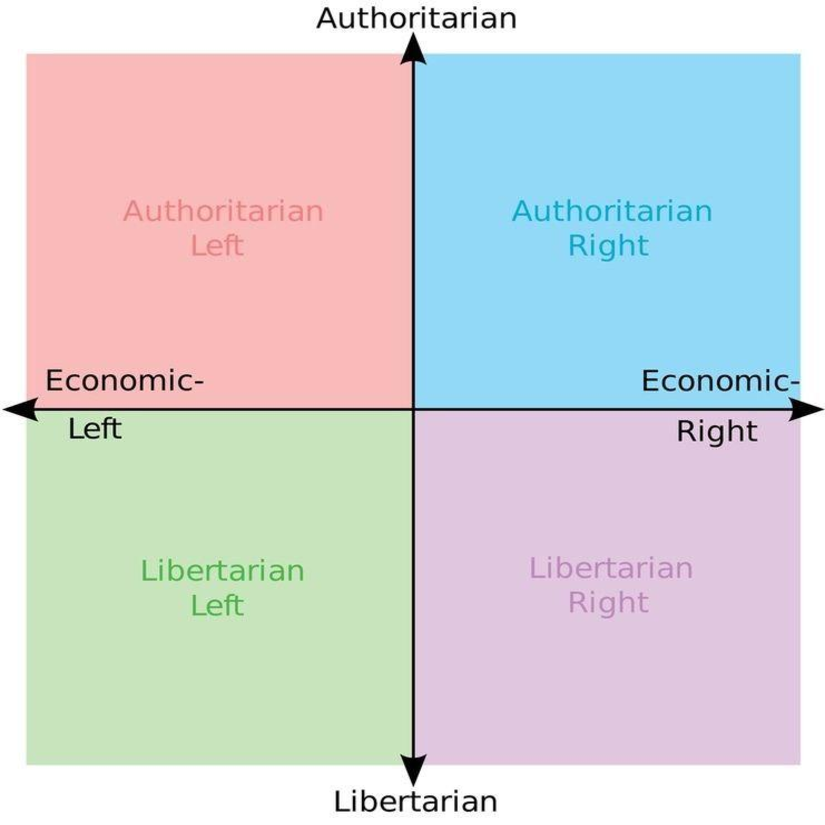
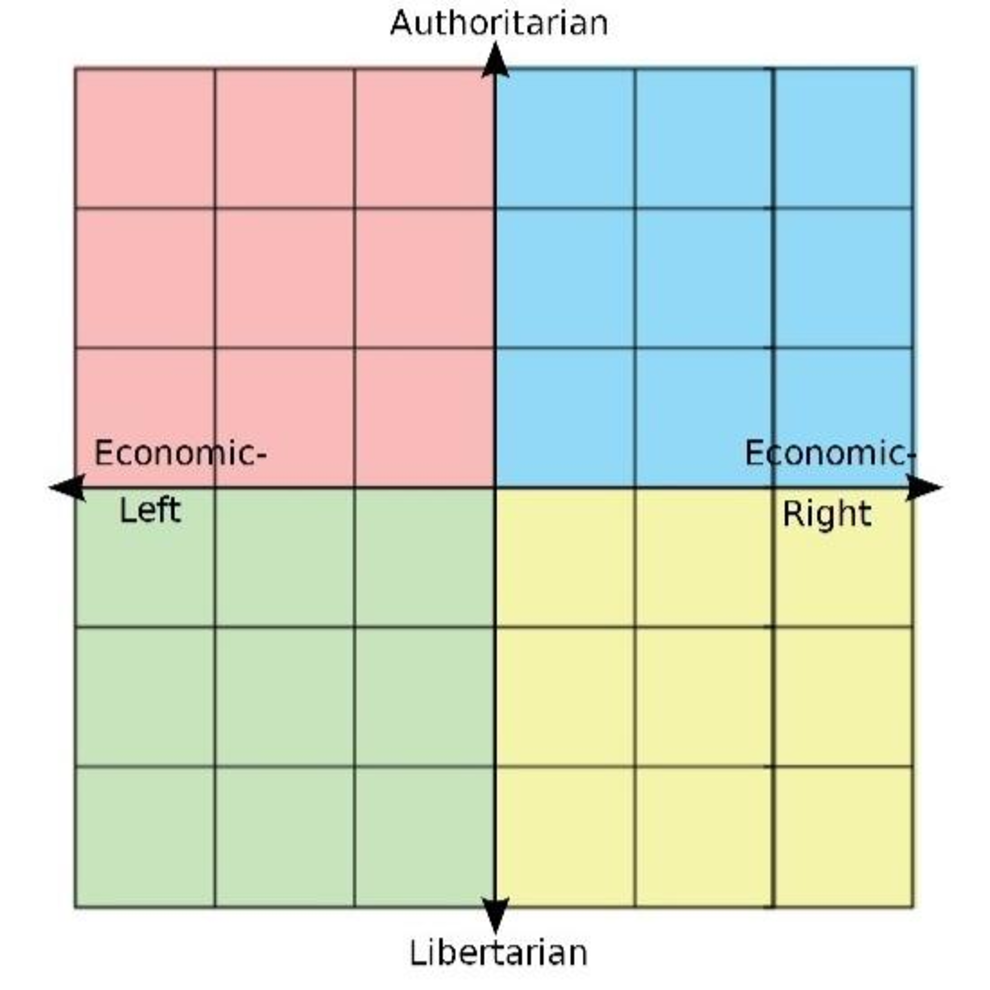
Added google form, changed result image, results counting and storage

diff --git a/PoliticalCompassBot/src/main/java/com/newsforright/bot/control/AnswerHandler.java b/PoliticalCompassBot/src/main/java/com/newsforright/bot/control/AnswerHandler.java
@@ -1,6 +1,5 @@
 package com.newsforright.bot.control;
 
-import com.newsforright.bot.entities.Question;
 import com.newsforright.bot.entities.TelegramUser;
 import com.newsforright.bot.enums.Answer;
 import com.newsforright.bot.enums.Button;
@@ -8,7 +7,6 @@ import com.newsforright.bot.enums.Util;
 import com.newsforright.bot.persistence.DBManager;
 import com.newsforright.bot.service.TelegramOutputService;
 import com.newsforright.bot.util.CommonUtils;
-import com.newsforright.bot.util.Pair;
 import org.springframework.beans.factory.annotation.Autowired;
 import org.springframework.stereotype.Service;
 
@@ -51,6 +49,7 @@ public class AnswerHandler {
         switch (currentUser.getBotState().getPhase()) {
             case GREETING -> greetingAnswer(message, currentUser);
             case TESTING -> handleQuizAnswer(message, currentUser);
+            case SOCIAL -> sendResults(message, currentUser);
             case RESULTS -> restartTest(message, currentUser);
         }
 
@@ -71,7 +70,9 @@ public class AnswerHandler {
         Button button = Button.getButton(message);
 
         //If BACK print previous question
-        if (button.equals(Util.BACK)) {
+        if (button.equals(Util.BACK) &&
+                currentUser.getBotState().getCurrentQuestion().getNumber() != 1) {
+
             goBack(currentUser);
             return;
         }
@@ -79,6 +80,7 @@ public class AnswerHandler {
         if (button.getButtonType().equals("UTIL")) return;
 
         //Else go to next question
+        assert button instanceof Answer;
         goForward((Answer) button, currentUser);
     }
 
@@ -94,10 +96,6 @@ public class AnswerHandler {
      * @param currentUser Telegram user who send message
      */
     private void goBack(TelegramUser currentUser){
-        int questionNumber = Math.toIntExact(currentUser.getBotState().getCurrentQuestion().getNumber());
-        //We need -2 because current question is the one that on the screen, left unanswered
-        Integer value = currentUser.getAnswers().get(questionNumber - 2);
-        updateResults(currentUser, -value); //subtracting
         quizController.askPrevious(currentUser);
     }
 
@@ -111,32 +109,29 @@ public class AnswerHandler {
         boolean inverted = currentUser.getBotState().getCurrentQuestion().getInverted();
 
         Integer buttonValue = button.getValue(inverted);
-        updateResults(currentUser, buttonValue);
         currentUser.getAnswers().set(questionNumber-1, buttonValue);
 
         if (questionNumber == utils.LAST_QUESTION.intValue()) { //if last show results
-            quizController.showResults(currentUser);
-            dbManager.nextPhase(currentUser.getBotState());
-            //TODO: DELETE THIS WHEN SOCIAL IMPLEMENTED!!!
-            dbManager.nextPhase(currentUser.getBotState());
+            sendSocialForm(currentUser);
         }
         else quizController.askNext(currentUser); //else go next
-    }
-
-    private void updateResults(TelegramUser currentUser, Integer value){
-        Pair<Integer, Integer> currentResults = utils.parseResults(currentUser.getResult());
-        Question currentQuestion = currentUser.getBotState().getCurrentQuestion();
-        switch (currentQuestion.getAxe()) {
-            case ECONOMICAL -> currentResults.first += value;
-            case POLITICAL -> currentResults.second += value;
-        }
-        currentUser.setResult(utils.resultsToString(currentResults));
-
     }
 
     private void startTest(TelegramUser currentUser) {
         dbManager.nextPhase(currentUser.getBotState());
         quizController.startQuiz(currentUser);
+    }
+
+    private void sendSocialForm(TelegramUser currentUser){
+        dbManager.nextPhase(currentUser.getBotState());
+        output.askGoogleForm(currentUser);
+        dbManager.saveUser(currentUser);
+    }
+
+    private void sendResults(String message, TelegramUser currentUser){
+        if (!message.equals(Util.RESULTS.getText())) return;
+        dbManager.nextPhase(currentUser.getBotState());
+        quizController.showResults(currentUser);
     }
 
 }

diff --git a/PoliticalCompassBot/src/main/java/com/newsforright/bot/service/TelegramOutputService.java b/PoliticalCompassBot/src/main/java/com/newsforright/bot/service/TelegramOutputService.java
@@ -1,11 +1,13 @@
 package com.newsforright.bot.service;
 
 import com.newsforright.bot.Bot;
+import com.newsforright.bot.entities.TelegramUser;
 import com.newsforright.bot.enums.Answer;
 import com.newsforright.bot.enums.Button;
 import com.newsforright.bot.enums.Util;
 import com.newsforright.bot.util.CommonUtils;
 import org.springframework.beans.factory.annotation.Autowired;
+import org.springframework.beans.factory.annotation.Value;
 import org.springframework.stereotype.Service;
 import org.telegram.telegrambots.meta.api.methods.send.SendMessage;
 import org.telegram.telegrambots.meta.api.methods.send.SendPhoto;
@@ -30,6 +32,10 @@ import java.util.List;
  */
 @Service
 public class TelegramOutputService {
+
+    @Value("${bot.resources.social-url}")
+    private String googleFormUrl;
+
     //dependencies
     private Bot bot;
     private CommonUtils utils;
@@ -94,7 +100,24 @@ public class TelegramOutputService {
             e.printStackTrace();
             utils.printErrorToDev("Error sending file"); //TODO: delete on release
         }
+        assert (image.delete());
     }
+
+    /**
+     * A method to send google form and ask to complete it
+     * @param currentUser Telegram user that send a message
+     */
+    public void askGoogleForm(TelegramUser currentUser) {
+        printWithMarkup(googleFormUrl + currentUser.getSocialDataId(), //form
+                currentUser.getChatId(),
+                requestResultsKeyboard());
+
+        printWithMarkup("Просимо вас, заповнити цю форму.\n" + //request
+                "Ми не передаємо ваші дані третім особам та не використовуємо їх в комерційних цілях",
+                currentUser.getChatId(),
+                requestResultsKeyboard());
+    }
+
 
     /**
      * Simple method to print some text with buttons to user
@@ -114,16 +137,31 @@ public class TelegramOutputService {
         }
     }
 
-    /**
-     * Simple method that creates one button markup
-     * Used with greeting
-     * @return KeyboardMarkup with one Util.LETSGO button
-     */
     private ReplyKeyboardMarkup startQuizMarkup() {
         ReplyKeyboardMarkup result = new ReplyKeyboardMarkup();
         result.setKeyboard(
                 List.of(
                         oneButtonRow(Util.LETSGO)
+                )
+        );
+        return result;
+    }
+
+    private ReplyKeyboard requestResultsKeyboard() {
+        ReplyKeyboardMarkup result = new ReplyKeyboardMarkup();
+        result.setKeyboard(
+                List.of(
+                        oneButtonRow(Util.RESULTS)
+                )
+        );
+        return result;
+    }
+
+    private ReplyKeyboardMarkup resultsKeyboard() {
+        ReplyKeyboardMarkup result = new ReplyKeyboardMarkup();
+        result.setKeyboard(
+                List.of(
+                        oneButtonRow(Util.RESTART)
                 )
         );
         return result;
@@ -143,19 +181,7 @@ public class TelegramOutputService {
         );
     }
 
-    /**
-     * Simple method that generates one button Keyboard for RESULTS phase
-     * @return keyboard markup with one Utils.RESTART button
-     */
-    private ReplyKeyboardMarkup resultsKeyboard() {
-        ReplyKeyboardMarkup result = new ReplyKeyboardMarkup();
-        result.setKeyboard(
-                List.of(
-                    oneButtonRow(Util.RESTART)
-                )
-        );
-        return result;
-    }
+
 
     /**
      * Simple method that converts list of standard quiz buttons to KeyboardMarkup
@@ -184,7 +210,5 @@ public class TelegramOutputService {
         result.add(button.getText());
         return result;
     }
-
-
 
 }

diff --git a/PoliticalCompassBot/src/main/java/com/newsforright/bot/util/CommonUtils.java b/PoliticalCompassBot/src/main/java/com/newsforright/bot/util/CommonUtils.java
@@ -70,23 +70,12 @@ public class CommonUtils {
     }
 
     /**
-     * Method that converts DB 'results' string in format (a,b) into Pair of integers
-     * @param str Input string in format '(a,b)'
-     * @return    Pair<Integer, Integer> where pair.first = a, pair.second = b
-     */
-    public Pair<Integer, Integer> parseResults(String str){
-        String x = str.substring(0, str.indexOf(','));
-        String y = str.substring(str.indexOf(',')+1);
-        return new Pair<>(Integer.parseInt(x), Integer.parseInt(y));
-    }
-
-    /**
      * Method that converts a Pair of integers (result) in string for
      * DB 'results' in format '(a,b)'
      * @param results Input Pair<Integer, Integer> of result
      * @return        String in format '(a,b)' where a = pair.first, b = pair.second
      */
-    public String resultsToString(Pair<Integer, Integer> results){
+    public String resultsToString(Pair<Double, Double> results){
         return results.first.toString() +
                 "," +
                 results.second.toString();
@@ -115,7 +104,8 @@ public class CommonUtils {
 
         LAST_QUESTION = (long) questionList.size();
         //TODO: Make a normal counter
-        MAX_SCORE_ECON = MAX_SCORE_POLI = questionList.size();
+        MAX_SCORE_ECON = questionList.size();
+        MAX_SCORE_POLI = questionList.size();
 
 
         //Getting image
@@ -187,17 +177,17 @@ public class CommonUtils {
         graphics2D.setRenderingHint(RenderingHints.KEY_INTERPOLATION, RenderingHints.VALUE_INTERPOLATION_BILINEAR);
         graphics2D.setColor(Color.BLACK); //Outer circle
         graphics2D.fillOval(
-                (int)(finalResults.first* 8),
-                (int)(finalResults.second * 8),
-                26,
-                26
+                (int)(finalResults.first* 8) + 73,
+                (int)(finalResults.second * 8) + 66,
+                43,
+                43
         );
         graphics2D.setColor(Color.RED); //Inner circle
         graphics2D.fillOval(
-                (int)(finalResults.first * 8) + 3,
-                (int)(finalResults.second * 8) + 3,
-                20,
-                20
+                (int)(finalResults.first * 8) + 73 + 6,
+                (int)(finalResults.second * 8) + 66 + 6,
+                31,
+                31
         );
         graphics2D.dispose();
         //Creating a temp file and saving result there

diff --git a/PoliticalCompassBot/src/main/java/com/newsforright/bot/control/QuizController.java b/PoliticalCompassBot/src/main/java/com/newsforright/bot/control/QuizController.java
@@ -96,15 +96,33 @@ public class QuizController {
      * @param currentUser TelegramUser who sent a message
      */
     public void showResults(TelegramUser currentUser) {
-        Pair<Integer, Integer> results = utils.parseResults(currentUser.getResult());
+
+        Pair<Integer, Integer> results = countResult(currentUser);
         Pair<Double, Double> finalResults = new Pair<>(
                 (100 * (double) (utils.MAX_SCORE_ECON + results.first) / (double) (2 * utils.MAX_SCORE_ECON)),
                 (100 * (double) (utils.MAX_SCORE_POLI + results.second) / (double) (2 * utils.MAX_SCORE_POLI))
         );
+        updateResults(currentUser, finalResults);
         output.sendResults(currentUser.getChatId(),
                 utils.getCompassWithDot(finalResults));
 
         dbManager.saveUser(currentUser);
+    }
+
+    private Pair<Integer, Integer> countResult(TelegramUser currentUser) {
+        Integer sumEconomical = 0;
+        Integer sumPolitical = 0;
+        for (int i = 0; i < utils.LAST_QUESTION; i++) {
+            if (utils.questionList.get(i).getAxe() == Axe.POLITICAL)
+                sumPolitical += currentUser.getAnswers().get(i);
+            else
+                sumEconomical += currentUser.getAnswers().get(i);
+        }
+        return new Pair<>(sumEconomical, sumPolitical);
+    }
+
+    private void updateResults(TelegramUser currentUser, Pair<Double, Double> results){
+        currentUser.setResult(utils.resultsToString(results));
     }
 
     private Question currentQuestion(TelegramUser currentUser) {

diff --git a/PoliticalCompassBot/src/main/java/com/newsforright/bot/control/MainController.java b/PoliticalCompassBot/src/main/java/com/newsforright/bot/control/MainController.java
@@ -11,6 +11,7 @@ import org.telegram.telegrambots.meta.api.objects.Message;
 import org.telegram.telegrambots.meta.api.objects.Update;
 
 import java.util.ArrayList;
+import java.util.concurrent.ThreadLocalRandom;
 
 /**
  * This is main controller class that partially parses message
@@ -93,13 +94,17 @@ public class MainController {
                 chatId,
                 null,
                 "0,0",
-                null,
+                getNewID(),
                 state,
                 new ArrayList<>(utils.getEmptyList())
         );
         state.setUser(user);
         dbManager.saveUser(user);
         return user;
+    }
+
+    private Long getNewID() {
+        return ThreadLocalRandom.current().nextLong(10000000000L, 100000000000L);
     }
 
 }

diff --git a/PoliticalCompassBot/src/main/java/com/newsforright/bot/enums/Button.java b/PoliticalCompassBot/src/main/java/com/newsforright/bot/enums/Button.java
@@ -15,6 +15,9 @@ public interface Button {
             case "Скоріше ні" -> Answer.WEAK_DISAGREE;
             case "Однозначно ні" -> Answer.STRONG_DISAGREE;
             case "Назад" -> Util.BACK;
+            case "Поїхали!" -> Util.LETSGO;
+            case "Пройти заново" -> Util.RESTART;
+            case "Показати результати" -> Util.RESULTS;
             default -> Util.NULL;
         };
     }

diff --git a/PoliticalCompassBot/src/main/java/com/newsforright/bot/enums/Util.java b/PoliticalCompassBot/src/main/java/com/newsforright/bot/enums/Util.java
@@ -10,6 +10,7 @@ public enum Util implements Button {
     LETSGO("Поїхали!"),
     BACK("Назад"),
     RESTART("Пройти заново"),
+    RESULTS("Показати результати"),
     NULL("")
     ;
 

diff --git a/PoliticalCompassBot/src/main/java/com/newsforright/bot/entities/TelegramUser.java b/PoliticalCompassBot/src/main/java/com/newsforright/bot/entities/TelegramUser.java
@@ -95,7 +95,7 @@ public class TelegramUser {
 
     @Column(name="social_data_id")
     @Getter @Setter
-    private Long socialDataId; //TODO: Change this to @OneToOne relation
+    private Long socialDataId;
 
 
     @OneToOne
